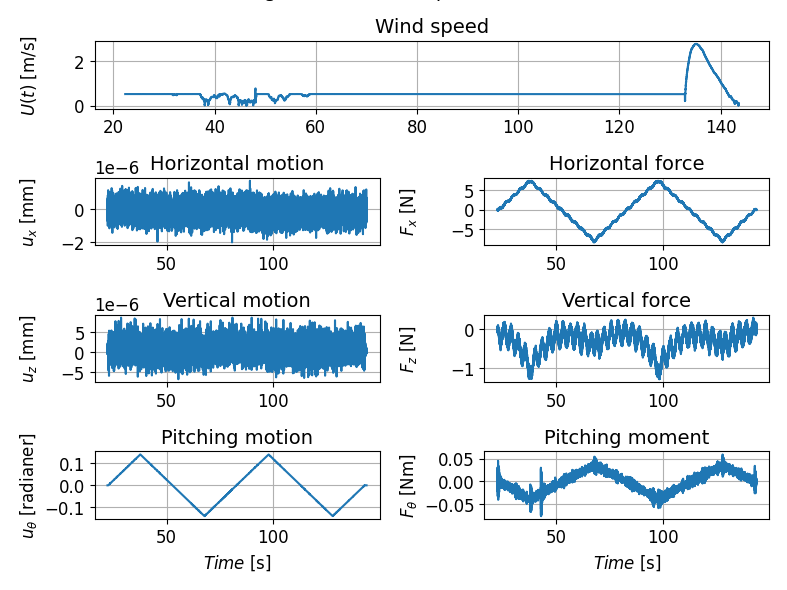
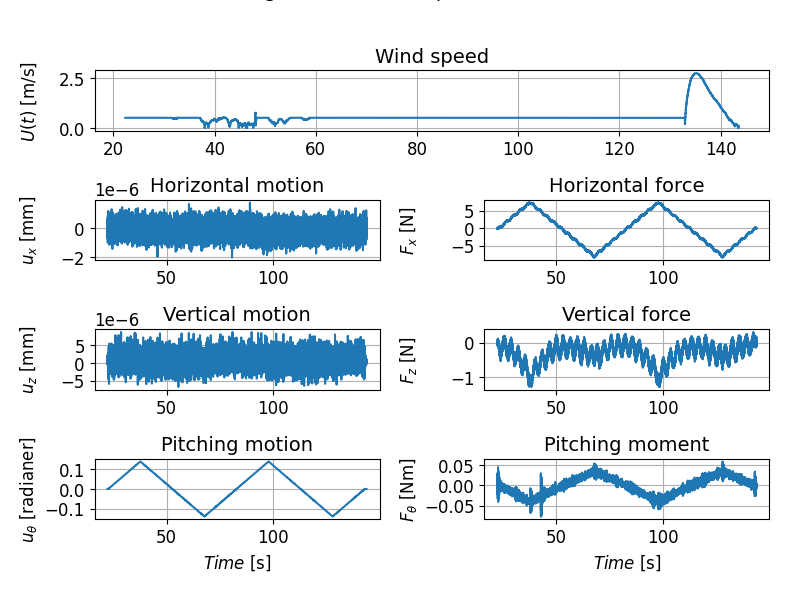
debugge

diff --git a/w3tp/w3t/_exp.py b/w3tp/w3t/_exp.py
@@ -378,7 +378,7 @@ class Experiment:
         axs[2].set_xlabel(r"$Time$ [s]")
         axs[2].grid(True)
         
-        fig.tight_layout(rect=[0, 0, 1, 0.95])
+        fig.tight_layout(rect=[0, 0, 1, 0.85])
 
         
         fig.show()
@@ -444,7 +444,7 @@ class Experiment:
         axs[2].set_xlabel(r"$Time$ [s]")
         axs[2].legend()
         
-        fig.tight_layout(rect=[0, 0, 1, 0.95])
+        fig.tight_layout(rect=[0, 0, 1, 0.85])
 
     
     def plot_wind_velocity(self,fig=[]):
@@ -490,7 +490,7 @@ class Experiment:
             
                         
         fig.set_size_inches(20/2.54,15/2.54)
-        fig.tight_layout(rect=[0, 0, 1, 0.95])
+        fig.tight_layout(rect=[0, 0, 1, 0.85])
 
         fig.align_ylabels()
 
@@ -543,7 +543,7 @@ class Experiment:
             axs[6].legend(["Load cell 1","Load cell 2", "Load cell 3", "Load cell 4" ])
            
             
-            fig.tight_layout(rect=[0, 0, 1, 0.95])
+            fig.tight_layout(rect=[0, 0, 1, 0.85])
 
         
         elif mode == "decks": # krefter og momenter summeres per brodekke
@@ -648,7 +648,7 @@ class Experiment:
             axs[6].set_xlabel(r"$Time$ [s]")
             #axs[6].legend()
             
-            fig.tight_layout(rect=[0, 0, 1, 0.95])
+            fig.tight_layout(rect=[0, 0, 1, 0.85])
 
         
 

diff --git a/w3tp/w3t/_scoff.py b/w3tp/w3t/_scoff.py
@@ -1728,7 +1728,7 @@ def plot_static_coeff_filtered_out_above_threshold(alpha,coeff_up_plot,coeff_dow
         max = 0.2
     if ax is None:
             fig, ax = plt.subplots(figsize=(8, 6))
-            fig.tight_layout(rect=[0, 0, 1, 0.95])
+            fig.tight_layout(rect=[0, 0, 1, 0.85])
 
     # Plot
 
